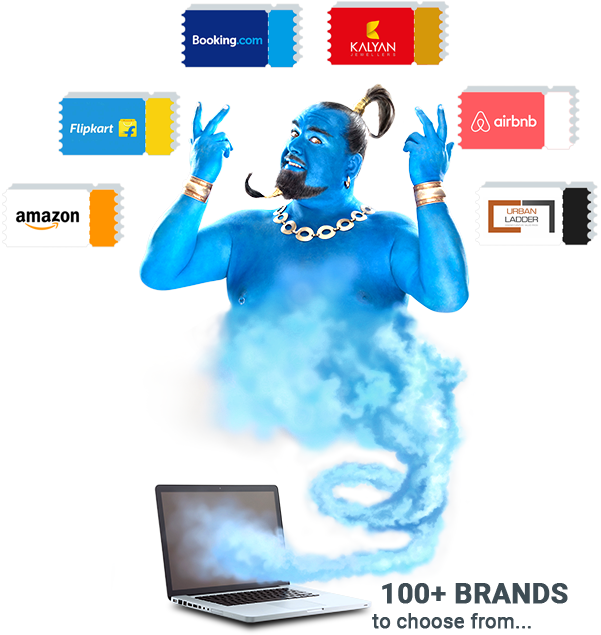
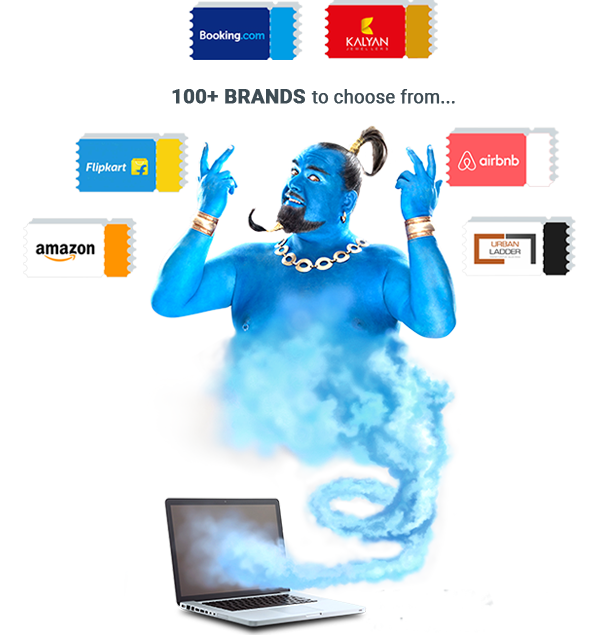
Fixed coupons style

diff --git a/src/styles/index.less b/src/styles/index.less
@@ -438,6 +438,49 @@ svg {
 }
 //Carousel custom style end
 
+/************************************************
+						react-responsive-carousel
+************************************************/
+.carousel.carousel-slider {
+	& .control-arrow {
+		height: 35px !important;
+		border: #000 1px solid !important;
+		border-radius: 20px;
+		color: #000 !important;
+		top: 50% !important;
+
+		&:before {
+			border-left: 14px solid #000 !important;
+			margin: 0px 3px 9px 8px !important;
+		}
+
+		&:hover,
+		&:focus {
+			background: @primary-color !important;
+			border-color: @primary-color !important;
+
+			&:before {
+				border-left-color: #fff !important;
+			}
+		}
+	}
+
+	& .control-prev.control-arrow {
+		&:before {
+			border-left: none !important;
+			border-right: 14px solid #000 !important;
+			margin: 0px 8px 9px 3px !important;
+		}
+
+		&:hover,
+		&:focus {
+			&:before {
+				border-right-color: #fff !important;
+			}
+		}
+	}
+}
+
 @media all and (max-width: 576px) {
 	.rec-carousel-wrapper {
 		padding: 0 5px;

diff --git a/src/components/landing/Landing.tsx b/src/components/landing/Landing.tsx
@@ -27,10 +27,6 @@ export default function Landing() {
       <Content className="with-banner">
         <Banner />
         <VerifyCodeModal />
-      </Content>
-      <SmartSaver />
-      <CouponsBanner />
-      <Content>
         <Parallax
           animation={[
             { x: 0, opacity: 1, playScale: [0, 0.6] },
@@ -91,9 +87,13 @@ export default function Landing() {
             <GettingStarted />
           </Row>
         </Parallax>
-        <Calculator />
-        <Testimonials />
       </Content>
+
+      <SmartSaver />
+      <CouponsBanner />
+      <Calculator />
+      <Testimonials />
+
       <Security />
       <GetRich />
       <FinancialIndependence />

diff --git a/src/components/landing/CouponsBanner.tsx b/src/components/landing/CouponsBanner.tsx
@@ -1,14 +1,21 @@
 import React from "react";
-import Carousel from "react-elastic-carousel";
+import { Carousel } from "react-responsive-carousel";
 import Content from "../Content";
 
+import "react-responsive-carousel/lib/styles/carousel.min.css";
 import "./CouponsBanner.less";
 
 export default function CouponsBanner() {
 	return (
 		<Content className="coupons-banner" whiteBg>
 			<h2>What Users Are Saying?</h2>
-			<Carousel itemsToShow={1} showArrows={false}>
+			<Carousel
+				autoPlay
+				interval={5000}
+				showThumbs={false}
+				showStatus={false}
+				infiniteLoop
+			>
 				<div>
 					<img src="images/travel-banner.jpg" />
 				</div>

diff --git a/src/components/landing/Banner.less b/src/components/landing/Banner.less
@@ -1,7 +1,7 @@
 .site-banner {
 	position: relative;
 	text-align: center;
-	margin-bottom: 20px;
+	margin-bottom: 80px;
 
 	& .site-banner-content {
 		position: absolute;
